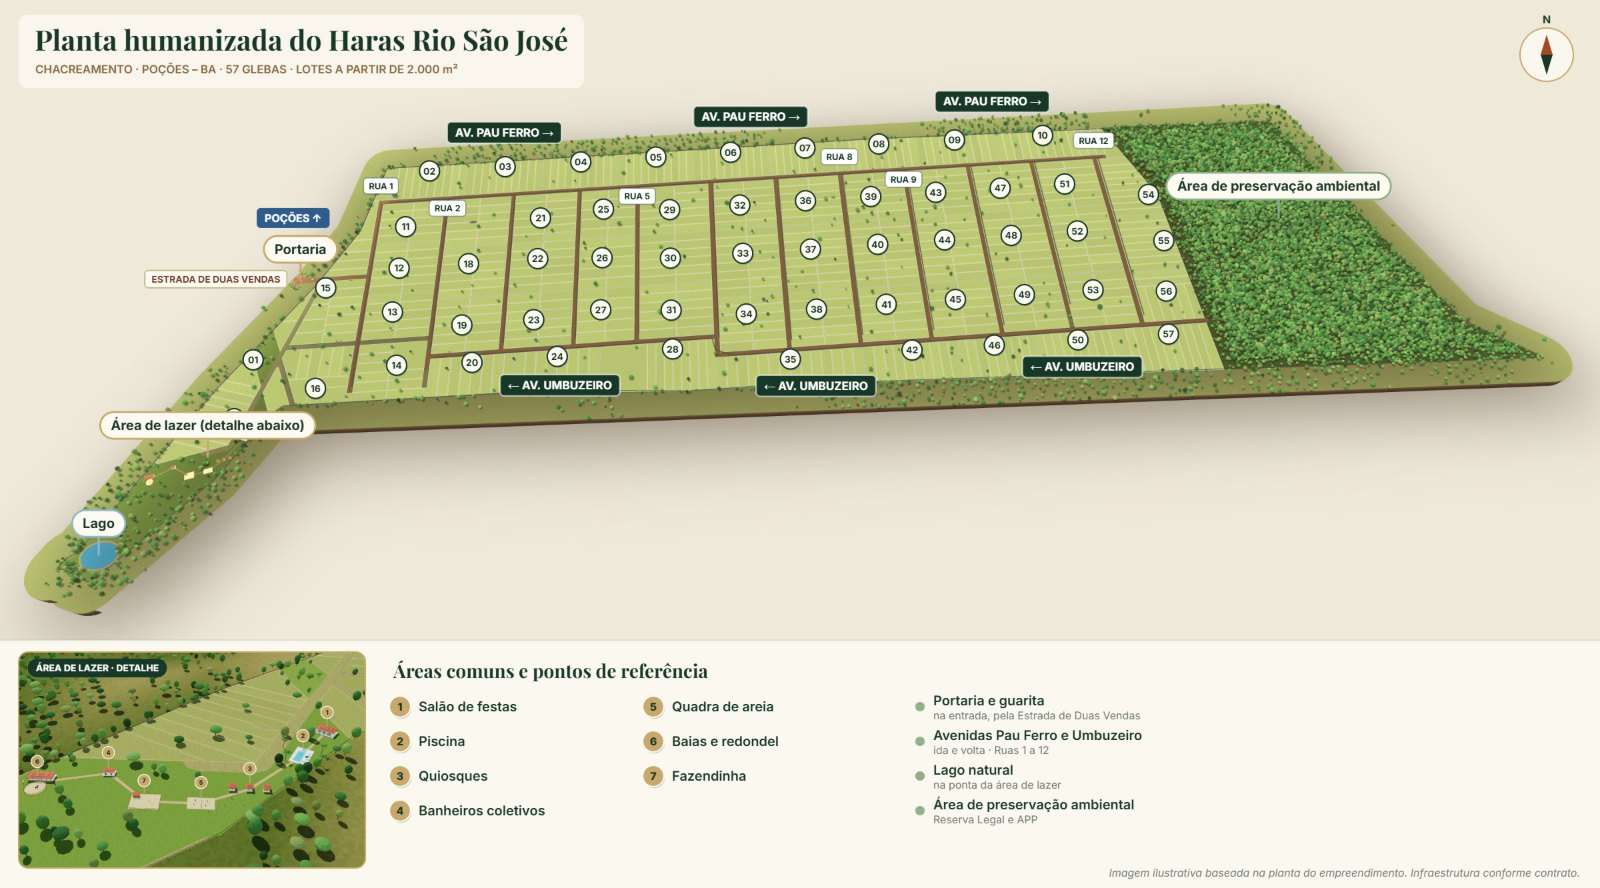
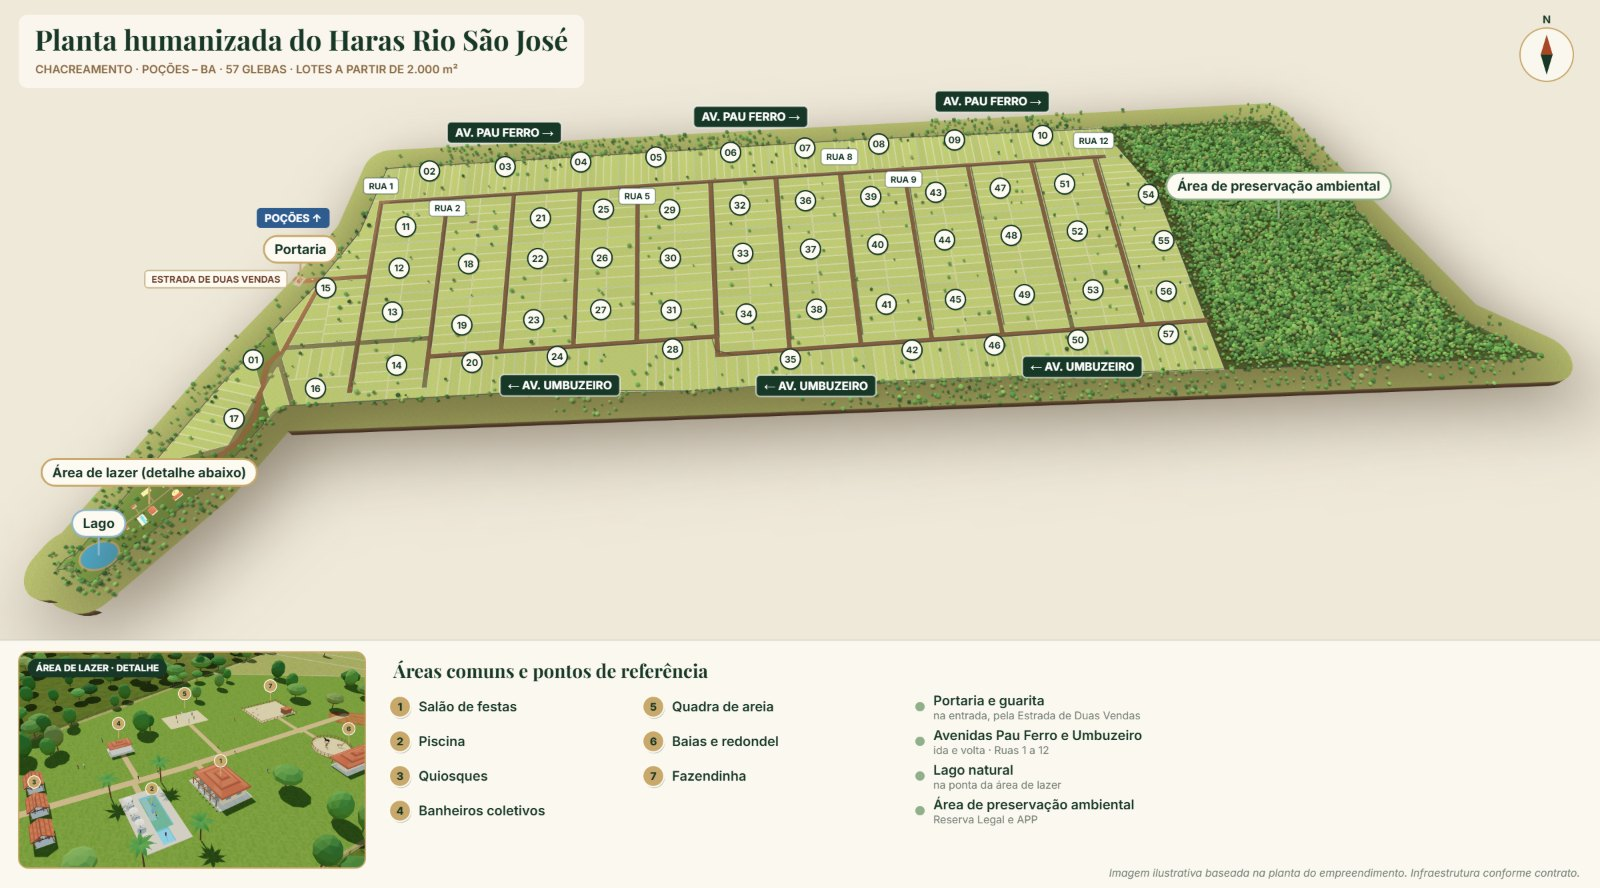
Rodada 3 concluída: clube na parte baixa, imagens 3D e planta-guia regeradas, galeria com 3d-clube e 3d-quiosque, versão 20260924d

diff --git a/index.html b/index.html
@@ -18,7 +18,7 @@
   <link rel="preconnect" href="https://fonts.gstatic.com" crossorigin>
   <link href="https://fonts.googleapis.com/css2?family=Playfair+Display:wght@600;700&family=Inter:wght@400;500;600;700&display=swap" rel="stylesheet">
 
-  <link rel="stylesheet" href="css/styles.css?v=20260924c">
+  <link rel="stylesheet" href="css/styles.css?v=20260924d">
 
   <!-- Planta 3D: Three.js (r160) pelo CDN jsDelivr, sem build. Sem WebGL, ou com ?2d=1, fica o mapa SVG. -->
   <link rel="modulepreload" href="https://cdn.jsdelivr.net/npm/three@0.160.0/build/three.module.min.js" crossorigin>
@@ -364,7 +364,8 @@
             <figure class="card-foto card-foto--projeto"><span class="tarja">Imagem ilustrativa</span><a href="assets/fotos/3d/3d-vista-geral.jpg" target="_blank" rel="noopener"><img src="assets/fotos/3d/3d-vista-geral-960.jpg" srcset="assets/fotos/3d/3d-vista-geral-960.jpg 960w, assets/fotos/3d/3d-vista-geral.jpg 1920w" sizes="(min-width: 900px) 33vw, 100vw" alt="Vista geral do chacreamento, com as glebas, as avenidas e a área de preservação ao fundo" loading="lazy" width="960" height="540" onerror="this.closest('figure').remove()"></a><figcaption>Vista geral do chacreamento</figcaption></figure>
             <figure class="card-foto card-foto--projeto"><span class="tarja">Imagem ilustrativa</span><a href="assets/fotos/3d/3d-portaria.jpg" target="_blank" rel="noopener"><img src="assets/fotos/3d/3d-portaria-960.jpg" srcset="assets/fotos/3d/3d-portaria-960.jpg 960w, assets/fotos/3d/3d-portaria.jpg 1920w" sizes="(min-width: 900px) 33vw, 100vw" alt="Portaria com guarita e pórtico na entrada pela Estrada de Duas Vendas" loading="lazy" width="960" height="540" onerror="this.closest('figure').remove()"></a><figcaption>Portaria e guarita</figcaption></figure>
             <figure class="card-foto card-foto--projeto"><span class="tarja">Imagem ilustrativa</span><a href="assets/fotos/3d/3d-salao-piscina.jpg" target="_blank" rel="noopener"><img src="assets/fotos/3d/3d-salao-piscina-960.jpg" srcset="assets/fotos/3d/3d-salao-piscina-960.jpg 960w, assets/fotos/3d/3d-salao-piscina.jpg 1920w" sizes="(min-width: 900px) 33vw, 100vw" alt="Salão de festas com varanda e piscina com áreas adulto e infantil" loading="lazy" width="960" height="540" onerror="this.closest('figure').remove()"></a><figcaption>Salão de festas e piscina</figcaption></figure>
-            <figure class="card-foto card-foto--projeto"><span class="tarja">Imagem ilustrativa</span><a href="assets/fotos/3d/3d-quiosques-quadra.jpg" target="_blank" rel="noopener"><img src="assets/fotos/3d/3d-quiosques-quadra-960.jpg" srcset="assets/fotos/3d/3d-quiosques-quadra-960.jpg 960w, assets/fotos/3d/3d-quiosques-quadra.jpg 1920w" sizes="(min-width: 900px) 33vw, 100vw" alt="Quiosques, quadra de areia, fazendinha e banheiros coletivos no gramado da área de lazer" loading="lazy" width="960" height="540" onerror="this.closest('figure').remove()"></a><figcaption>Quiosques, quadra de areia e fazendinha</figcaption></figure>
+            <figure class="card-foto card-foto--projeto"><span class="tarja">Imagem ilustrativa</span><a href="assets/fotos/3d/3d-clube.jpg" target="_blank" rel="noopener"><img src="assets/fotos/3d/3d-clube-960.jpg" srcset="assets/fotos/3d/3d-clube-960.jpg 960w, assets/fotos/3d/3d-clube.jpg 1920w" sizes="(min-width: 900px) 33vw, 100vw" alt="Área de lazer vista do alto: salão, piscina, quiosques, quadra de areia, banheiros, baias e fazendinha" loading="lazy" width="960" height="540" onerror="this.closest('figure').remove()"></a><figcaption>Área de lazer: salão, piscina, quiosques, quadra de areia, baias e fazendinha</figcaption></figure>
+            <figure class="card-foto card-foto--projeto"><span class="tarja">Imagem ilustrativa</span><a href="assets/fotos/3d/3d-quiosque.jpg" target="_blank" rel="noopener"><img src="assets/fotos/3d/3d-quiosque-960.jpg" srcset="assets/fotos/3d/3d-quiosque-960.jpg 960w, assets/fotos/3d/3d-quiosque.jpg 1920w" sizes="(min-width: 900px) 33vw, 100vw" alt="Quiosque aberto em madeira com bancada e mesas, no gramado da área de lazer" loading="lazy" width="960" height="540" onerror="this.closest('figure').remove()"></a><figcaption>Quiosque</figcaption></figure>
             <figure class="card-foto card-foto--projeto"><span class="tarja">Imagem ilustrativa</span><a href="assets/fotos/3d/3d-baias-redondel.jpg" target="_blank" rel="noopener"><img src="assets/fotos/3d/3d-baias-redondel-960.jpg" srcset="assets/fotos/3d/3d-baias-redondel-960.jpg 960w, assets/fotos/3d/3d-baias-redondel.jpg 1920w" sizes="(min-width: 900px) 33vw, 100vw" alt="Cinco baias e redondel" loading="lazy" width="960" height="540" onerror="this.closest('figure').remove()"></a><figcaption>Baias e redondel</figcaption></figure>
             <figure class="card-foto card-foto--projeto"><span class="tarja">Imagem ilustrativa</span><a href="assets/fotos/3d/3d-avenida.jpg" target="_blank" rel="noopener"><img src="assets/fotos/3d/3d-avenida-960.jpg" srcset="assets/fotos/3d/3d-avenida-960.jpg 960w, assets/fotos/3d/3d-avenida.jpg 1920w" sizes="(min-width: 900px) 33vw, 100vw" alt="Avenida cascalhada com a rede elétrica instalada e os lotes demarcados" loading="lazy" width="960" height="540" onerror="this.closest('figure').remove()"></a><figcaption>Avenida, rede elétrica e lotes demarcados</figcaption></figure>
             <figure class="card-foto card-foto--projeto"><span class="tarja">Imagem ilustrativa</span><a href="assets/fotos/3d/3d-lago.jpg" target="_blank" rel="noopener"><img src="assets/fotos/3d/3d-lago-960.jpg" srcset="assets/fotos/3d/3d-lago-960.jpg 960w, assets/fotos/3d/3d-lago.jpg 1920w" sizes="(min-width: 900px) 33vw, 100vw" alt="Lago natural cercado de árvores, na ponta da área de lazer" loading="lazy" width="960" height="540" onerror="this.closest('figure').remove()"></a><figcaption>Lago natural</figcaption></figure>
@@ -404,7 +405,7 @@
     </div>
   </footer>
 
-  <script src="js/app.js?v=20260924c" defer></script>
-  <script type="module" src="js/mapa3d.js?v=20260924c" onerror="window.dispatchEvent(new CustomEvent('haras:3d-falhou'))"></script>
+  <script src="js/app.js?v=20260924d" defer></script>
+  <script type="module" src="js/mapa3d.js?v=20260924d" onerror="window.dispatchEvent(new CustomEvent('haras:3d-falhou'))"></script>
 </body>
 </html>

diff --git a/js/render3d.js b/js/render3d.js
@@ -7,7 +7,7 @@
    com sombras reais nas vistas de perto, e enviada ao servidor local.
    ===================================================================== */
 import * as THREE from 'three';
-import { construirCena, centroide, enquadrarPontos } from './cena3d.js?v=20260924c';
+import { construirCena, centroide, enquadrarPontos } from './cena3d.js?v=20260924d';
 
 const $ = (s) => document.querySelector(s);
 const log = (t) => { $('#log').textContent += t + '\n'; };

diff --git a/js/mapa3d.js b/js/mapa3d.js
@@ -14,7 +14,7 @@
    ===================================================================== */
 import * as THREE from 'three';
 import { MapControls } from 'three/addons/controls/MapControls.js';
-import { construirCena, enquadrarPontos, simplificarPoly } from './cena3d.js?v=20260924c';
+import { construirCena, enquadrarPontos, simplificarPoly } from './cena3d.js?v=20260924d';
 
 const ponte = window.HarasMapa;
 const quadro = document.getElementById('mapa-quadro');

diff --git a/README.md b/README.md
@@ -50,6 +50,8 @@ O mapa SVG continua no `index.html` como **reserva**: aparece sozinho se o apare
 
 **Visual padrão = maquete humanizada** (desde a 2ª rodada de 24/09): o terreno sobre uma base com gramado em volta e laterais de terra, fundo claro, mesmo enquadramento e leitura do mapa ilustrado (glebas em serifa, placas das avenidas por fora do miolo, cores de situação). Lotes em três camadas: pasto natural + véu da situação (forte de longe, suave de perto) + contorno colorido. No computador, sombra real de árvores/prédios/postes (calculada uma vez). Lote selecionado mostra as medidas do memorial nas bordas (frente, fundo, esquerda, direita); escala gráfica em metros. O botão de montanha liga o **entorno** (céu, morros e caatinga). Construções no estilo dos renders do projeto (guarita de pedra com faixa bordô e telhado grande; salão e baias com telhado de quatro águas), respeitando o contrato (5 baias, sem piquete).
 
+**3ª rodada (24/09/2026)**: a área de lazer fica na **parte baixa da faixa inferior esquerda, logo acima do lago** (conforme a implantação). As posições dos itens saem de `scripts/decorar.py` pelo eixo da faixa (`decor.eixo_clube` e `decor.lazer` no `data/lotes.json`); há a via "Acesso ao clube" desde a portaria. Guarita conforme o projeto de revitalização (maio/2026), com a nova logo na placa (`assets/logo-placa.jpg`). Galeria "Como vai ficar": vista geral, portaria, salão e piscina, **área de lazer (`3d-clube`)**, **quiosque (`3d-quiosque`)**, baias e redondel, avenida, lago e área de preservação. Versão contra cache: `?v=20260924d` em `index.html`, `js/mapa3d.js` e `js/render3d.js`; troque nos três lugares ao mudar JS/CSS.
+
 Regras que a cena respeita (contrato v4): vias de terra cascalhada (não asfalto), cerca **só no perímetro** (cada comprador cerca o seu lote), sem deck, sem píer, sem parque infantil, sem estacionamento, sem churrasqueira, quadra **de areia**, 5 baias. As imagens de apresentação mostram os lotes em tom neutro (sem disponibilidade, que muda todo dia) e levam a tarja "Imagem ilustrativa".
 
 Desempenho: desenho sob demanda (só quando a câmera mexe), lotes numa malha única, árvores/postes/mourões/piquetes instanciados, área de lazer fundida por material, árvores distantes com geometria simples; no celular, menos árvores e pixel ratio ≤ 1,5. Medido: ~5 ms por quadro na vista geral em desktop.
